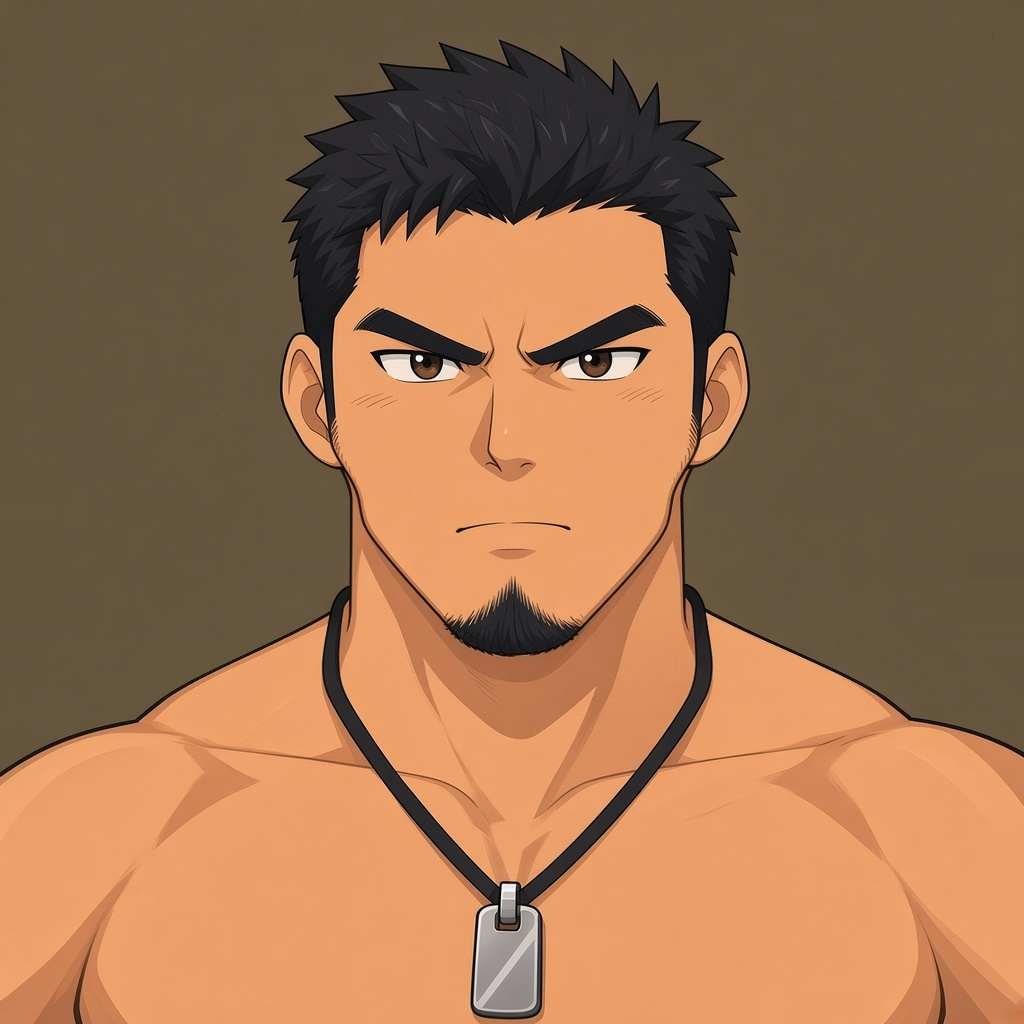
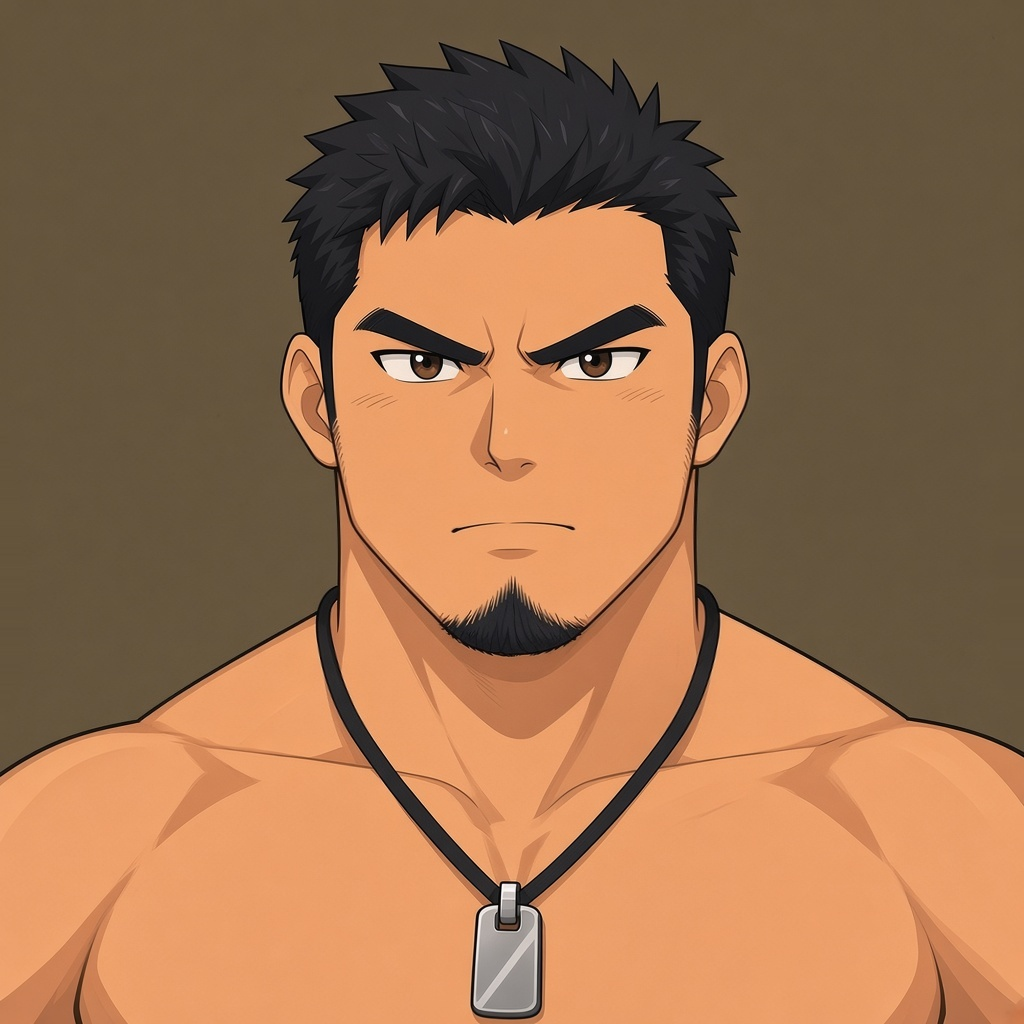
fix: 把正视下颌收回圆滑的弧
上一版把下颌角掐出折角。改回顺着原来的轮廓轻轻收一点，嘴不往里挤。

diff --git a/人物设定图/设定说明.md b/人物设定图/设定说明.md
@@ -4,7 +4,7 @@
 
 脸用选定的那张：眉骨重、眼往侧看、下巴一小撮山羊胡。头发按参考改成短的粗块，块大、轮廓粗、块里不再画细丝。脸加宽，颊更满，下颌和颊的外轮廓是一条圆滑的弧，不再收成瘦尖的下巴。全身上的下巴跟这版圆润轮廓走。身材高、腿长。下身平黑短裤。纹身和旁边的人不进设定。黑绳狗牌和颊上那滴汗只留在头部还原这一套里。
 
-选定的脸还是 `脸部选定/正面.jpg`，那张头是微侧的，眼往旁边看，不当正视。当前只收平视。方向和表情合在 `脸部选定平视.jpg`。方向里的第一格改成正视：脸正对镜头，两耳都在，鼻子在中线，文件是 `脸部选定/正视.jpg`。正视的下颌角往里收一点，两边不要拉宽。眼睛和耳朵不动。脸宽和肩宽跟选定的脸对齐。侧面下颌线用上一版：脸上是一条圆滑的弧，从耳前弯到下巴。下巴接到脖子的那条外轮廓不动。方向有正视、左45°、右45°、侧面、背面。表情有平视、侧目、沉脸、怒、惊讶，以及隐忍、喘息、眯眼、高潮、失神、坏笑、微喘、抿嘴、陶醉、吃惊、呼气。每种表情有正视、左45°、侧面。侧目是头仍正对镜头，眼往侧看，嘴角轻笑。平视嘴是平的。沉脸嘴绷直。怒是眉压下去。惊讶张嘴睁眼。隐忍咬牙。喘息张嘴、瞳仁还在。眯眼是眼闭上。高潮眼白上翻。失神是眼松、嘴也松。坏笑嘴角歪、露一点牙。微喘只张开一条缝。抿嘴不露牙。陶醉半眯眼，带着软笑。吃惊眼睁圆、嘴只开一个小口。呼气嘴收得更小，嘴角往一边撇。仰视和俯视这轮不收。
+选定的脸还是 `脸部选定/正面.jpg`，那张头是微侧的，眼往旁边看，不当正视。当前只收平视。方向和表情合在 `脸部选定平视.jpg`。方向里的第一格改成正视：脸正对镜头，两耳都在，鼻子在中线，文件是 `脸部选定/正视.jpg`。正视下颌只顺着原来的弧轻轻收一点，不把嘴和下巴掐窄。眼睛和耳朵不动。脸宽和肩宽跟选定的脸对齐。侧面下颌线用上一版：脸上是一条圆滑的弧，从耳前弯到下巴。下巴接到脖子的那条外轮廓不动。方向有正视、左45°、右45°、侧面、背面。表情有平视、侧目、沉脸、怒、惊讶，以及隐忍、喘息、眯眼、高潮、失神、坏笑、微喘、抿嘴、陶醉、吃惊、呼气。每种表情有正视、左45°、侧面。侧目是头仍正对镜头，眼往侧看，嘴角轻笑。平视嘴是平的。沉脸嘴绷直。怒是眉压下去。惊讶张嘴睁眼。隐忍咬牙。喘息张嘴、瞳仁还在。眯眼是眼闭上。高潮眼白上翻。失神是眼松、嘴也松。坏笑嘴角歪、露一点牙。微喘只张开一条缝。抿嘴不露牙。陶醉半眯眼，带着软笑。吃惊眼睁圆、嘴只开一个小口。呼气嘴收得更小，嘴角往一边撇。仰视和俯视这轮不收。
 
 ## 识别点
 
